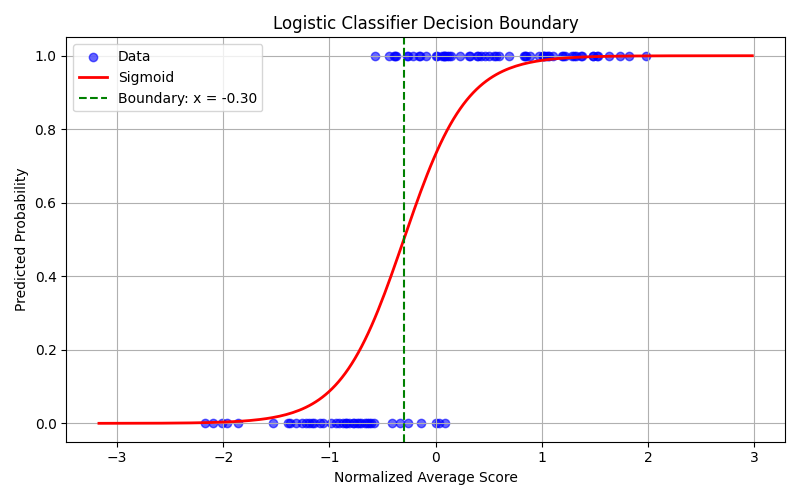
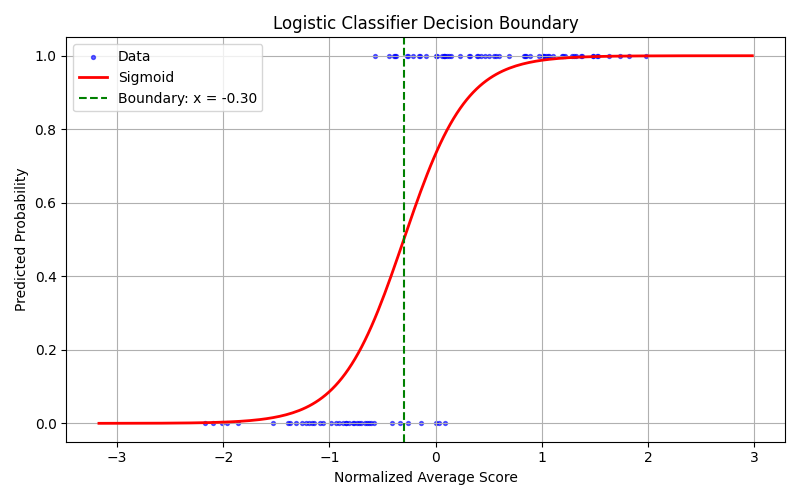
changed vscode png viewer and edited output plots

diff --git a/CodeLocal/Ex2_1D/visual.py b/CodeLocal/Ex2_1D/visual.py
@@ -30,8 +30,11 @@ def plot_data(score1_np, score2_np, stateF_np):
     plt.title("Challenge Scores vs Outcome")
     plt.legend()
     plt.grid(True)
-    plt.savefig("C:\\Documents\\600_Testing_Programing\\MLStudy\\CodeLocal\\Ex2_1D\\Plots\\DataScatter.png")
+    plt.savefig(
+        "C:\\Documents\\600_Testing_Programing\\MLStudy\\CodeLocal\\Ex2_1D\\Plots\\DataScatter.png"
+    )
     plt.close()
+
 
 def plot_sigmoid_boundary(model, X_tensor, y_tensor):
     X_np = X_tensor.numpy().flatten()
@@ -50,14 +53,31 @@ def plot_sigmoid_boundary(model, X_tensor, y_tensor):
 
     # Plot
     plt.figure(figsize=(8, 5))
-    plt.scatter(X_np, y_np, color="blue", label="Data", alpha=0.6)
-    plt.plot(x_vals, y_pred, color="red", linewidth=2, label="Sigmoid")
-    plt.axvline(boundary, color="green", linestyle="--", label=f"Boundary: x = {boundary:.2f}")
+    plt.scatter(
+        X_np,
+        y_np,
+        s=8,
+        color="blue",
+        label="Data",
+        alpha=0.6,
+    )
+    plt.plot(
+        x_vals,
+        y_pred,
+        color="red",
+        linewidth=2,
+        label="Sigmoid",
+    )
+    plt.axvline(
+        boundary, color="green", linestyle="--", label=f"Boundary: x = {boundary:.2f}"
+    )
     plt.xlabel("Normalized Average Score")
     plt.ylabel("Predicted Probability")
     plt.title("Logistic Classifier Decision Boundary")
     plt.legend()
     plt.grid(True)
     plt.tight_layout()
-    plt.savefig("C:\\Documents\\600_Testing_Programing\\MLStudy\\CodeLocal\\Ex2_1D\\Plots\\DecisionBoundary.png")
+    plt.savefig(
+        "C:\\Documents\\600_Testing_Programing\\MLStudy\\CodeLocal\\Ex2_1D\\Plots\\DecisionBoundary.png"
+    )
     plt.close()
